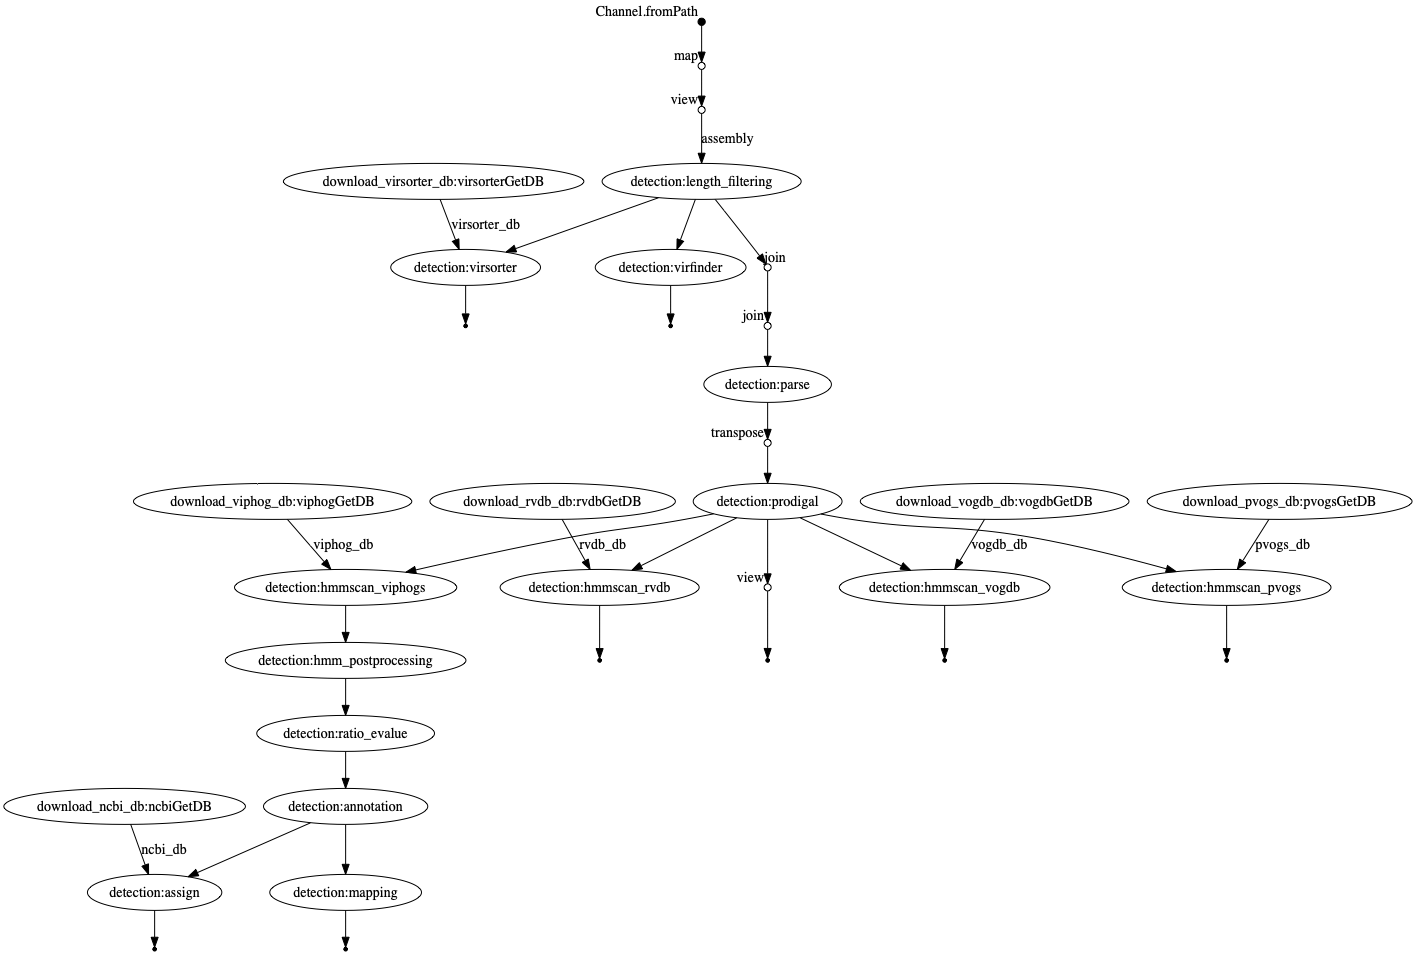
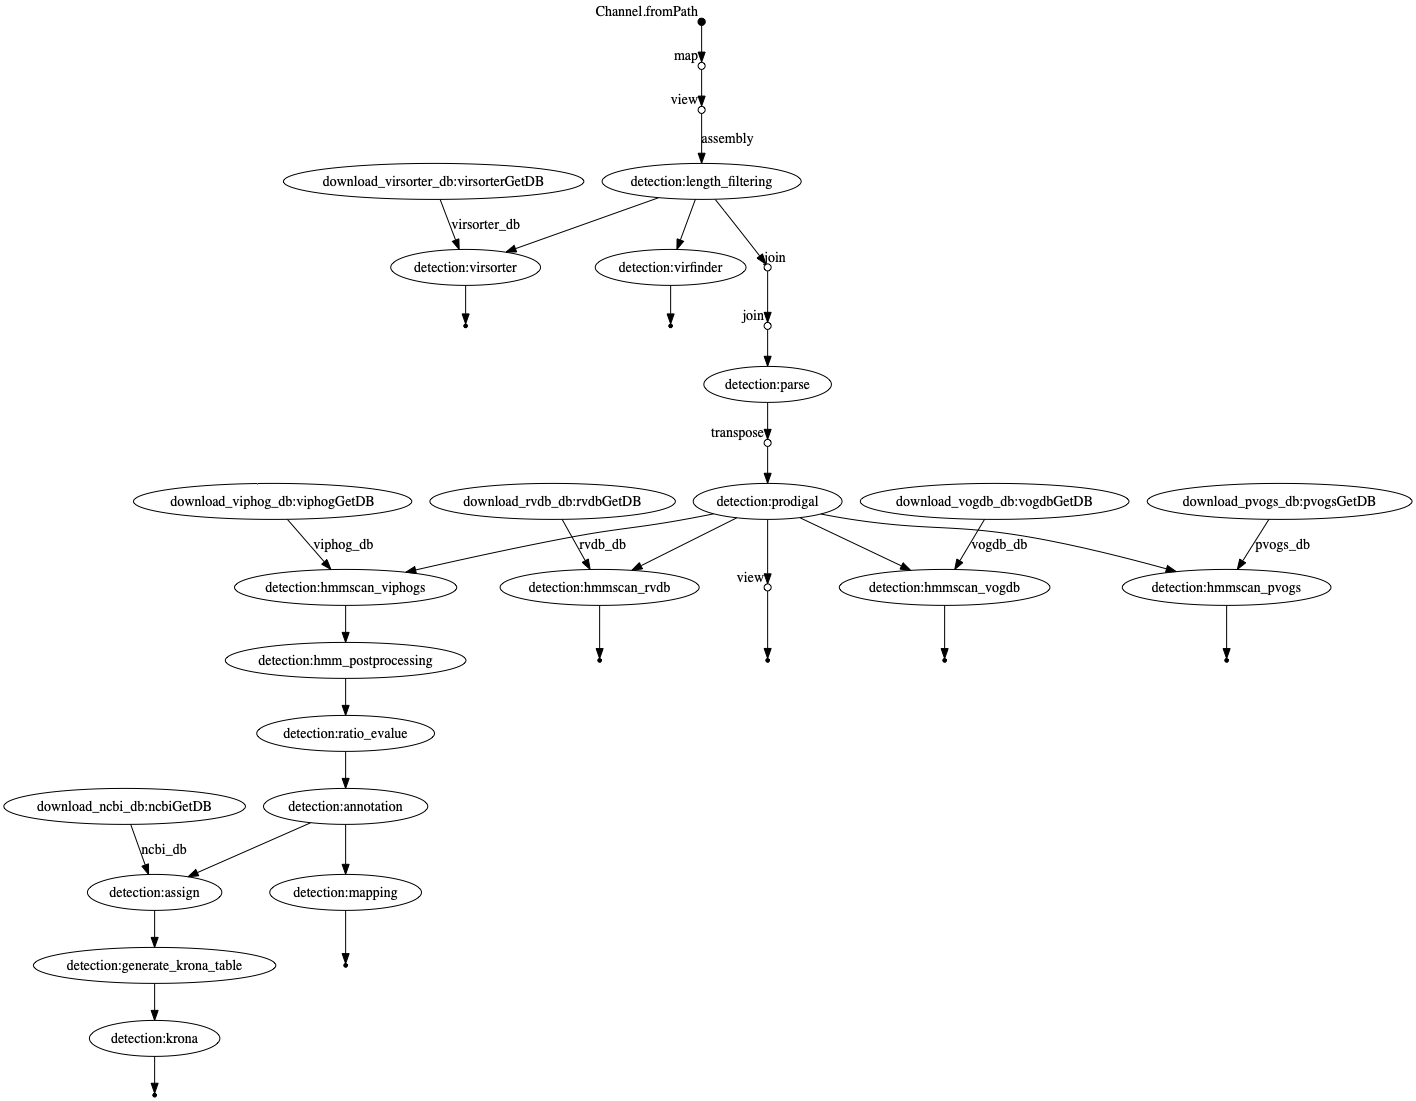
extend readme

Changed region(s): [[0.0, 0.0, 0.9944, 0.9717], [0.1864, 0.911, 0.2797, 0.9414], [0.5282, 0.577, 0.5593, 0.6073]]

diff --git a/README.md b/README.md
@@ -9,20 +9,54 @@ Email: hoelzer.martin@gmail.com
 A nextflow implementation of the [EBI VIRify pipeline](https://github.com/EBI-Metagenomics/emg-viral-pipeline) for the detection of viruses from metagenomic assemblies.
 This implementation is heavily based on scripts and work by [Guillermo Rangel-Pineros](https://github.com/guille0387) and the [EBI Sequence Families Team](https://www.ebi.ac.uk/about/people/rob-finn).
 
+## What do I need?
+
+This pipeline runs with the workflow manager [Nextflow](https://www.nextflow.io/) using [Docker](https://docs.docker.com/v17.09/engine/installation/linux/docker-ce/ubuntu/#install-docker-ce) (Conda will be implemented soonish, hopefully). All other programs and databases are automatically downloaded by Nextflow. _Attention_, the workflow will download databases with a size of roughly 27 GB the first time it is executed. 
+
+### Install Nextflow
+```bash
+curl -s https://get.nextflow.io | bash
+```
+* see [more instructions about Nextflow](https://www.nextflow.io/). 
+
+### Install Docker
+If you dont have experience with bioinformatic tools and their installation just copy the commands into your terminal to set everything up:
+```bash
+sudo apt-get install -y docker-ce docker-ce-cli containerd.io
+sudo usermod -a -G docker $USER
+```
+* restart your computer
+* see [more instructions about Docker](https://docs.docker.com/v17.09/engine/installation/linux/docker-ce/ubuntu/#install-docker-ce)
+
+
 ## Basic execution
 
+Simply clone this repository or get or update the workflow via Nextflow:
+```bash
+nextflow pull hoelzer/virify
+```
+
+Get help:
+```bash
+nextflow run hoelzer/virify --help
+```
+
+Run annotation for a small assembly file:
 ````
-nextflow run virify.nf --fasta 'example_data/miseq.fasta'
+nextflow run hoelzer/virify --fasta '~/.nextflow/assets/hoelzer/virify/example_data/PRJNA530103_small.fasta'
 ````
 
-See 
+## Profiles
 
-````
-netflow run virify.nf --help
-````
+Per default the workflow is run with Docker-support. When you execute the workflow on a HPC you can switch to 
+* SLURM (``-profile slurm``)
+* LSF (``-profile lsf``)
+and then you should also define the parameters
+* --workdir (here your work directories will be save)
+* --databases (here your databases will be saved and the workflow checks if they are already available)
+* --cachedir (here Docker/Singularity containers will be cached)
 
-for more parameter options. 
-
+The ``-profile conda`` is not working at the moment. Sorry. Use Docker. Please. 
 
 ## DAG chart
 
